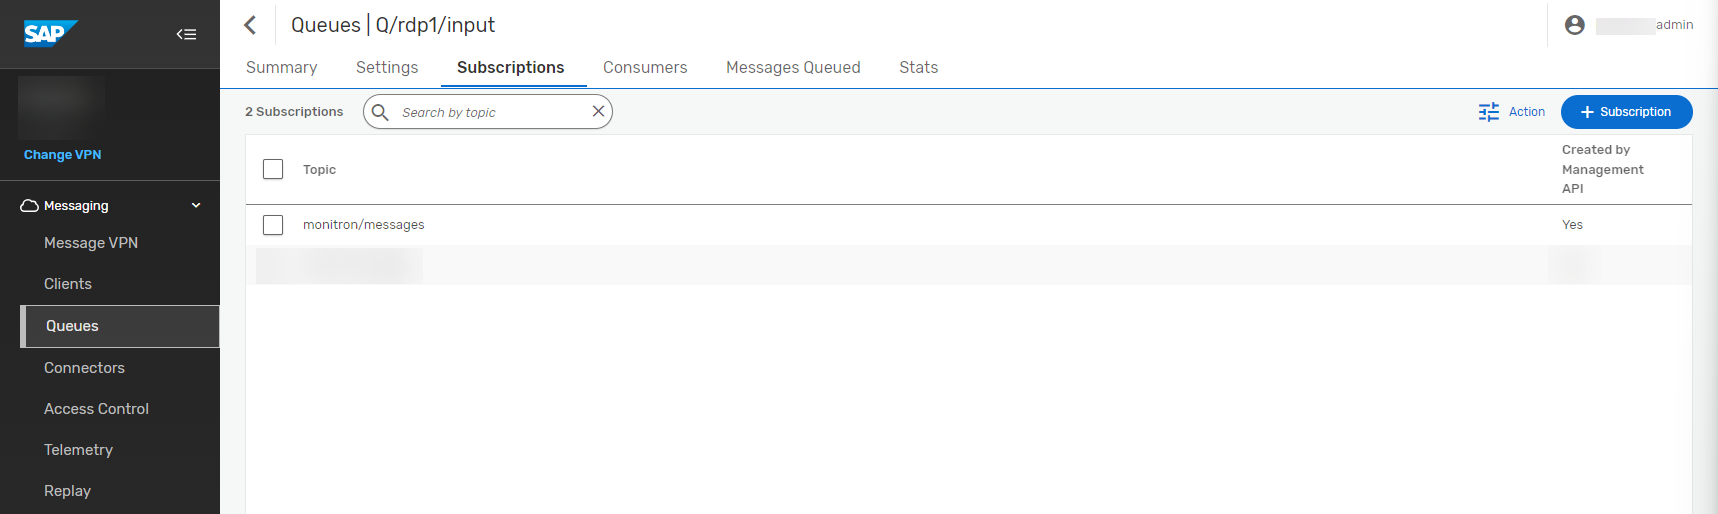
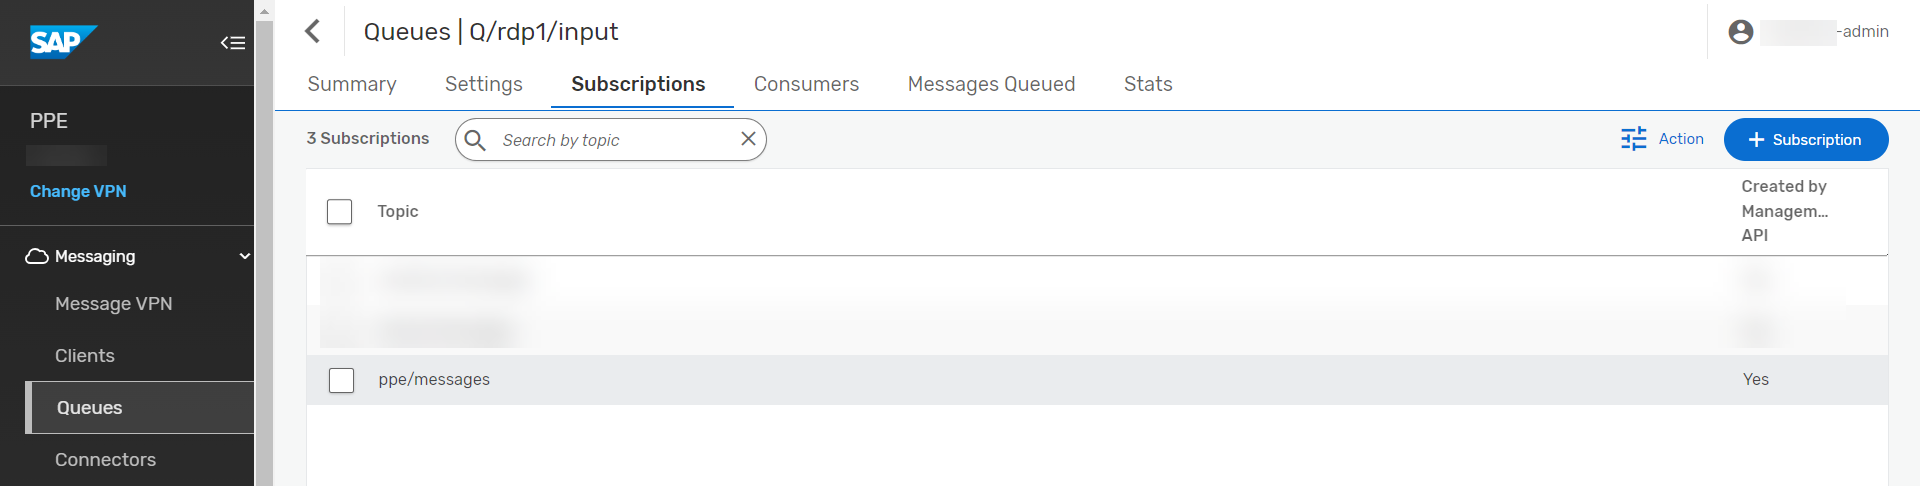
ppe-aem-config steps

diff --git a/Documentation/Step4-Build-Deploy-ExtensionApplication/README.md b/Documentation/Step4-Build-Deploy-ExtensionApplication/README.md
@@ -61,6 +61,7 @@ Build and deploy the application. Run the following commands:
     ![plot](./images/access-aem.png)
 
 10. Choose **Cluster Manager** in the SAP Integration Suite, Advanced Event Mesh Application. 
+
     ![plot](./images/aem-application.png)
 
 11. Click on **Create Service**.
@@ -75,6 +76,7 @@ Build and deploy the application. Run the following commands:
 
 
 12. Click on the created service **PPE**
+
     ![plot](./images/aem-service-screen1.png)
 
     Click on the **connect** tab and expand the **REST** tile to get the messaging connectivity information.
@@ -89,15 +91,19 @@ Build and deploy the application. Run the following commands:
      ![plot](./images/aem-openbrokermanager.png)
 
      **b.** The **Broker Manager** application loads. The next step is to create a queue, on the left pane click on **Queues**  
+
      ![plot](./images/aem-click-on-queue.png)
 
      **c.** Create a Queue by name **Q/rdp1/input**
+
      ![plot](./images/aem-create-queue.png)
 
      Enable both incoming and outgoing configuration
+
      ![plot](./images/aem-queue2.png)    
 
      Queue successfully created
+
      ![plot](./images/aem-queue-created.png)    
 
      **d.** Add a **Topic Subscription** to the queue.
@@ -105,26 +111,33 @@ Build and deploy the application. Run the following commands:
      Click on the queue created and then click on the **Subscriptions** Tab.
 
      Then click on **+ Subscription** to add a topic.
+
      ![plot](./images/aem-addtopicsubscription.png)
 
      In the **Create Subscription** screen, type in the topic name as **ppe/messages** and click **Create**
+
      ![plot](./images/aem-topic-name.png)    
 
      Topic Subscription successfully created. 
+
      ![plot](./images/aem-topic-created.png)
 
      **e.** Create a **REST Delivery Point** object
 
      On the left pane click on **Clients** and then Navigate to **REST** tab.
+
      ![plot](./images/aem-rest-client.png)
 
      Click on ** + REST Delivery Point** and Fill the **RDP Name** as **rdp1**
+
      ![plot](./images/aem-rdp-name.png)
 
      Configure the REST Delivery Point
+
      ![plot](./images/aem-rdp-config.png)  
 
      REST Delivery Point successfully created
+     
      ![plot](./images/aem-rdp-created.png)  
 
      **f.**  Create a Queue Binding object

diff --git a/README.md b/README.md
@@ -132,10 +132,6 @@ Step 3: Connect SAP BTP and SAP S/4HANA
 
 ## Additional Resources
 
-This project has been implemented based on the following SAP CAP sample repository.
-
-- [Cloud-cap-samples](https://github.com/SAP-samples/cloud-cap-samples/)
-
 Related projects :
 
 - [Events-to-Business-Actions-Framework](https://github.com/SAP-samples/btp-events-to-business-actions-framework/tree/main)
@@ -146,7 +142,7 @@ No known issues.
 
 ## Reference
 
-[AWS Monitron](https://docs.aws.amazon.com/Monitron/latest/user-guide/what-is-monitron.html)
+[AWS Rekognition](https://docs.aws.amazon.com/rekognition/latest/dg/what-is.html)
 
 ## Disclaimer
 
